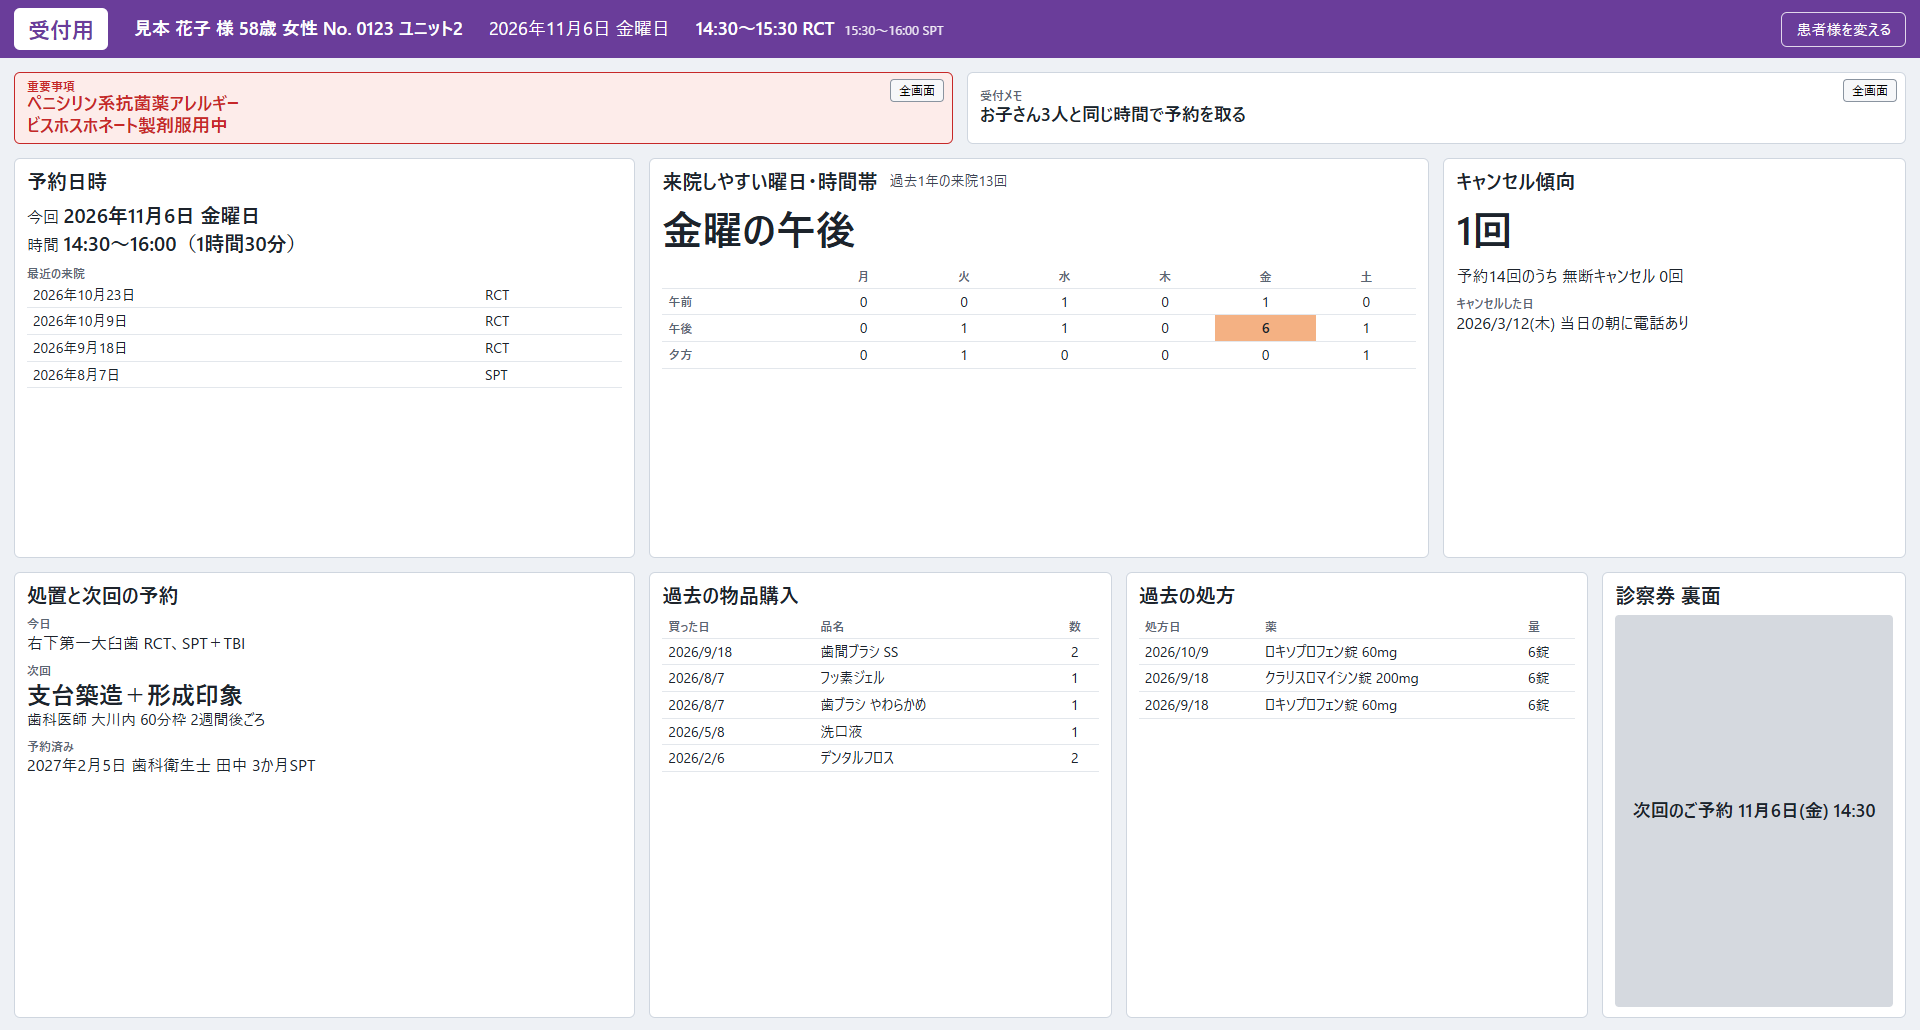
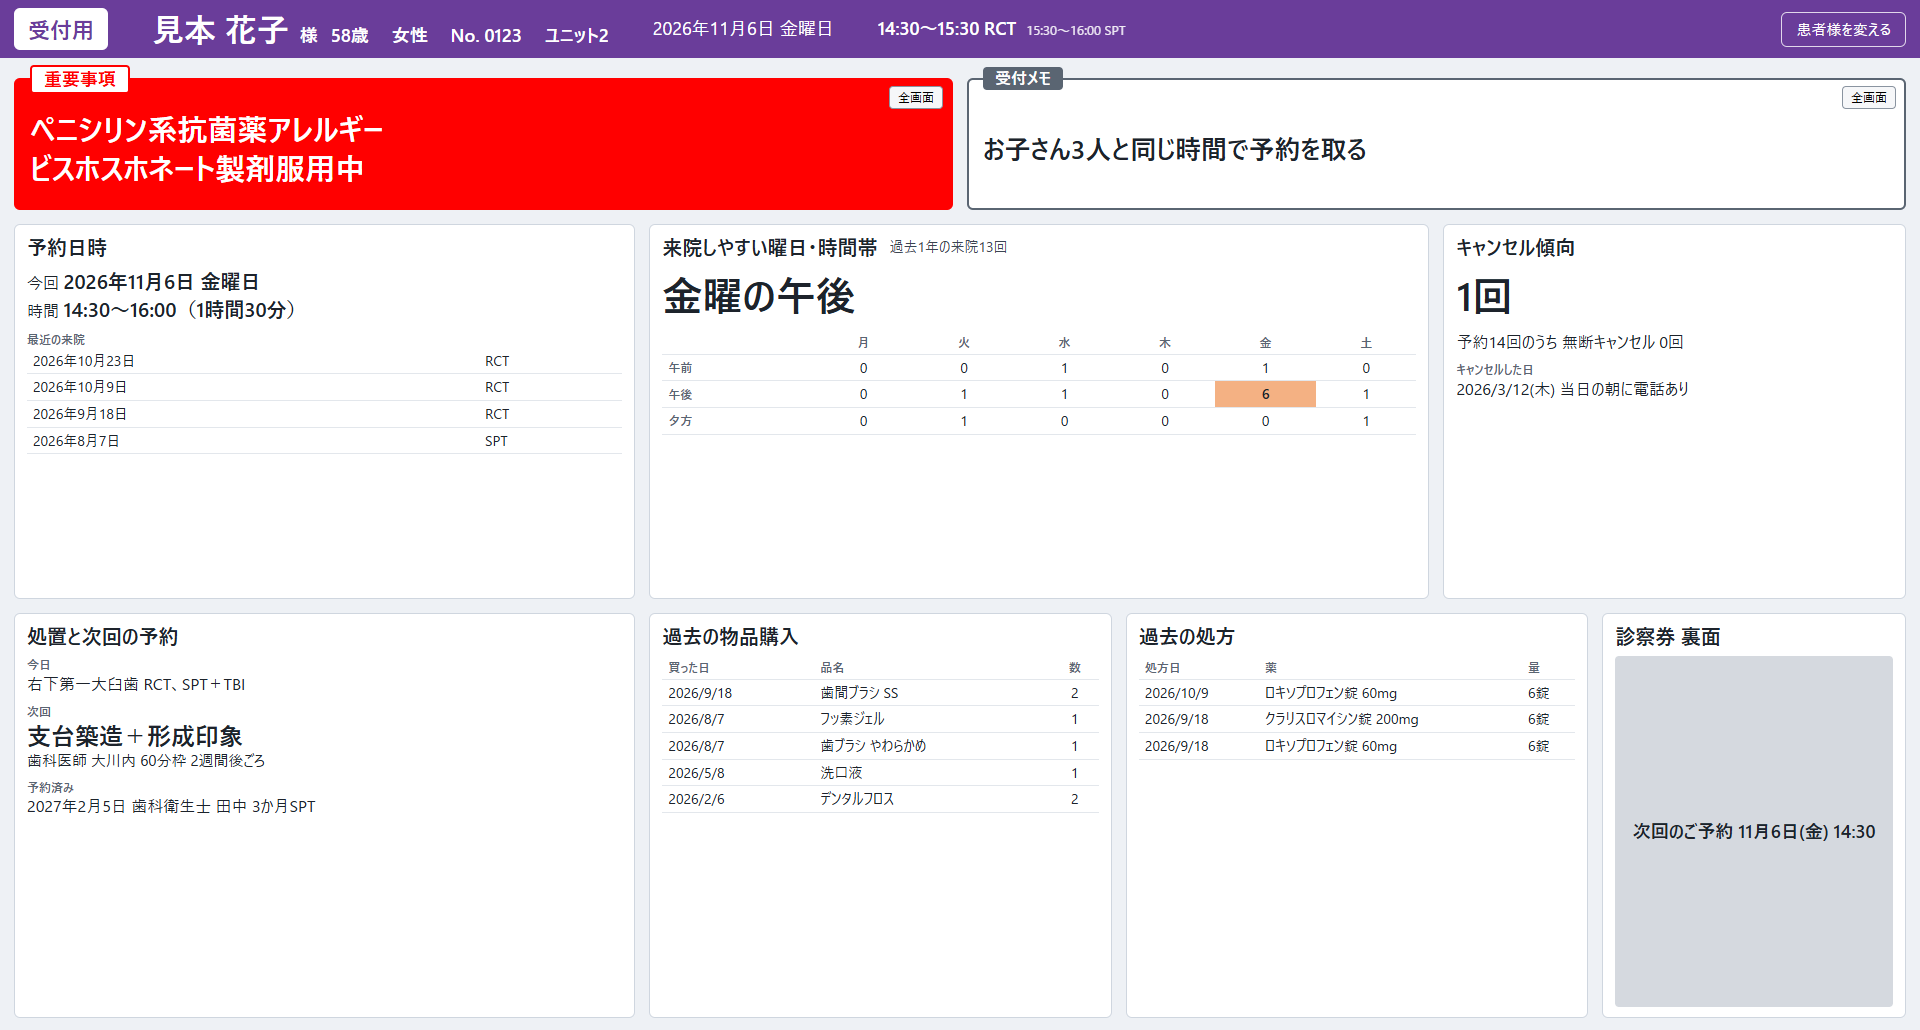
見た目: ヘッダーの名前と帯を見やすく

diff --git a/app/static/css/mock.css b/app/static/css/mock.css
@@ -34,7 +34,7 @@ body {
   color: #fff;
   display: flex;
   align-items: center;
-  gap: 26px;
+  gap: 44px;
   padding: 0 14px;
   white-space: nowrap;
 }
@@ -48,6 +48,9 @@ body {
   border-radius: 6px;
 }
 .topbar .patient { font-size: 18px; font-weight: 700; }
+.topbar .patient .pname { font-size: 32px; font-weight: 800; margin-right: 6px; }
+.topbar .patient .pinfo { margin-left: 18px; }
+.topbar .patient .pinfo:first-of-type { margin-left: 8px; }
 .topbar .date { font-size: 18px; }
 .topbar .appt { font-size: 18px; font-weight: 700; }
 .topbar .appt small { font-size: 13px; font-weight: 400; margin-left: 10px; opacity: .9; }
@@ -65,10 +68,11 @@ body {
 }
 .topbar .mic { width: 30px; height: 30px; fill: #fff; }
 
-/* 帯 */
+/* 帯。題は枠線にかぶせた見出しにする */
 .bands {
   flex: none;
-  height: 72px;
+  height: 132px;
+  margin-top: 6px;
   display: grid;
   gap: 14px;
   padding: 0 14px;
@@ -78,21 +82,35 @@ body {
 .band {
   position: relative;
   background: #fff;
-  border: 1px solid var(--line);
+  border: 2px solid #5a6572;
   border-radius: 6px;
-  padding: 4px 70px 4px 12px;
-  overflow: hidden;
+  padding: 18px 14px 8px;
   display: flex;
   flex-direction: column;
   justify-content: center;
+  min-width: 0;
 }
-.band h2 { margin: 0; font-size: 12px; line-height: 1.1; font-weight: 700; color: #5a6572; }
-.band .lines { font-size: 15px; line-height: 1.3; }
-.band.alert { background: var(--red-bg); border-color: var(--red); }
-.band.alert h2 { color: var(--red); }
-.band.alert .lines { color: var(--red); font-weight: 800; font-size: 18px; line-height: 1.2; }
-.band .inline { display: flex; flex-wrap: wrap; column-gap: 14px; font-size: 14px; }
-.band .big { font-size: 18px; font-weight: 700; }
+.band h2 {
+  position: absolute;
+  top: -13px;
+  left: 14px;
+  margin: 0;
+  background: #5a6572;
+  color: #fff;
+  font-size: 16px;
+  line-height: 1.3;
+  font-weight: 700;
+  padding: 1px 12px;
+  border-radius: 4px;
+}
+.band .lines { font-size: 24px; line-height: 1.3; font-weight: 700; }
+.band.alert { background: #ff0000; border-color: #ff0000; }
+.band.alert h2 { background: #fff; color: #ff0000; border: 2px solid #ff0000; top: -15px; font-size: 18px; font-weight: 800; }
+.band.alert .lines { color: #fff; font-size: 30px; line-height: 1.3; font-weight: 800; }
+.band .big { font-size: 26px; line-height: 1.3; font-weight: 700; }
+.band .meds { list-style: disc; margin: 0; padding-left: 26px; font-size: 21px; line-height: 1.3; font-weight: 700; overflow-y: auto; flex: 1; min-height: 0; }
+.band .meds li { padding: 0; }
+.band .mini { position: absolute; top: 6px; right: 8px; }
 
 /* 本体 */
 .body {
@@ -102,9 +120,9 @@ body {
   gap: 14px;
   padding: 0 14px;
 }
-.body.doctor { grid-template-rows: 500px 346px; }
-.body.hygienist { grid-template-rows: 386px 460px; }
-.body.reception { grid-template-rows: 400px 446px; }
+.body.doctor { grid-template-rows: 465px 315px; }
+.body.hygienist { grid-template-rows: 355px 425px; }
+.body.reception { grid-template-rows: 375px 405px; }
 
 .card {
   position: relative;

diff --git a/tests/test_mock_doctor.py b/tests/test_mock_doctor.py
@@ -9,8 +9,8 @@ WORDS = [
     "歯科医師用", "見本 花子 様 58歳 女性 No. 0123 ユニット2", "2026年11月6日 金曜日",
     "14:30〜15:30（1時間）", "15:30〜16:00 SPT", "患者様を変える", "役割を変える",
     "重要事項", "ペニシリン系抗菌薬アレルギー", "ビスホスホネート製剤服用中",
-    "全身既往・服薬", "高血圧、アムロジピン内服中", "脂質異常症、ロスバスタチン内服中",
-    "骨粗鬆症、BP製剤内服中", "申し送り", "長く口を開けているのがつらい方です",
+    "全身既往・服薬", "高血圧（アムロジピン内服中）", "脂質異常症（ロスバスタチン内服中）",
+    "骨粗鬆症（BP製剤内服中）", "申し送り", "長く口を開けているのがつらい方です",
     "今日の処置", "右下6番 根管充填", "根管治療 3回目", "治療計画",
     "右下6番 次回 支台築造と形成、そのあとクラウン", "左下7番 3か月様子を見る",
     "その間に 右上5番 の充填", "過去の診療メモ",
@@ -29,5 +29,16 @@ def test_doctor_screen(server, browser):  # noqa: F811
     assert pg.locator("button:has-text('全画面')").count() == 6
     assert pg.locator("[data-part=photo-list] .ph").count() == 12
     assert pg.locator("[data-part=treatment-history] tbody tr").count() == 10
-    # 過去の診療メモだけ縦にスクロールできる
+    # 全身既往・服薬は1行ずつで、4行が全部見える
+    meds = pg.locator("[data-part=medical-history] ul.meds")
+    assert meds.locator("li").count() == 4
+    assert meds.evaluate("e => e.scrollHeight <= e.clientHeight + 1")
+    # 重要事項は赤地に白文字
+    assert pg.locator("[data-part=important]").evaluate(
+        "e => getComputedStyle(e).backgroundColor") == "rgb(255, 0, 0)"
+    assert pg.locator("[data-part=important] .lines").evaluate(
+        "e => getComputedStyle(e).color") == "rgb(255, 255, 255)"
+    # 名前は他の項目より大きい
+    size = lambda sel: pg.locator(sel).first.evaluate("e => parseFloat(getComputedStyle(e).fontSize)")
+    assert size(".pname") > size(".pinfo")
     pg.close()

diff --git a/app/mockview/parts.py b/app/mockview/parts.py
@@ -9,7 +9,11 @@ MIC = (
 FULL = '<button class="mini" type="button" data-action="fullscreen">全画面</button>'
 PHONE = '<button class="mini" type="button" data-action="phone">スマホ</button>'
 
-PATIENT = "見本 花子 様 58歳 女性 No. 0123"
+PATIENT = (
+    '<b class="pname">見本 花子</b> 様 '
+    '<span class="pinfo">58歳</span> <span class="pinfo">女性</span> '
+    '<span class="pinfo">No. 0123</span>'
+)
 DATE = "2026年11月6日 金曜日"
 
 
@@ -24,7 +28,7 @@ def page(role, title, topbar, bands, body):
 
 
 def topbar(tag, appt_html, buttons, unit=True, mic=True):
-    unit_s = " ユニット2" if unit else ""
+    unit_s = ' <span class="pinfo">ユニット2</span>' if unit else ""
     right = (MIC if mic else "") + "".join(
         f'<button type="button" data-action="{a}">{t}</button>' for a, t in buttons
     )
@@ -65,13 +69,14 @@ def important():
 
 
 def medical():
-    inner = (
-        '<div class="inline"><span>高血圧、アムロジピン内服中</span>'
-        "<span>脂質異常症、ロスバスタチン内服中</span>"
-        "<span>骨粗鬆症、BP製剤内服中</span>"
-        "<span>ペニシリン系抗菌薬アレルギー</span></div>"
-    )
-    return band("medical-history", "全身既往・服薬", inner)
+    items = [
+        "高血圧（アムロジピン内服中）",
+        "脂質異常症（ロスバスタチン内服中）",
+        "骨粗鬆症（BP製剤内服中）",
+        "ペニシリン系抗菌薬アレルギー",
+    ]
+    li = "".join(f"<li>{x}</li>" for x in items)
+    return band("medical-history", "全身既往・服薬", f'<ul class="meds">{li}</ul>')
 
 
 def note():

diff --git a/tests/test_mock_hygienist.py b/tests/test_mock_hygienist.py
@@ -8,8 +8,8 @@ WORDS = [
     "歯科衛生士用", "見本 花子 様 58歳 女性 No. 0123 ユニット2", "2026年11月6日 金曜日",
     "15:30〜16:00（30分）", "前の予約 14:30〜15:30 RCT", "患者様を変える", "役割を変える",
     "重要事項", "ペニシリン系抗菌薬アレルギー", "ビスホスホネート製剤服用中",
-    "全身既往・服薬", "高血圧、アムロジピン内服中", "脂質異常症、ロスバスタチン内服中",
-    "骨粗鬆症、BP製剤内服中", "申し送り", "長く口を開けているのがつらい方です",
+    "全身既往・服薬", "高血圧（アムロジピン内服中）", "脂質異常症（ロスバスタチン内服中）",
+    "骨粗鬆症（BP製剤内服中）", "申し送り", "長く口を開けているのがつらい方です",
     "口腔内写真", "スマホ", "話した内容の整理", "右下奥の清掃を指導", "寝る前の歯間ブラシを継続",
     "録音中 00:48", "メンテナンス間隔", "3か月ごと 前回 2026年8月7日", "使用ケア用品・購入履歴",
     "歯間ブラシ SS", "2026/9/18", "フッ素ジェル", "2026/8/7", "歯ブラシ やわらかめ",

diff --git a/docs/制作記録.md b/docs/制作記録.md
@@ -7,3 +7,4 @@
 - 2026-11-02 G04: 歯科衛生士の画面の見本（/mock/hygienist）を頼まれた。上の行と帯は歯科医師の画面と共通の部品にし、写真、話した内容、ケア用品、歯周基本検査の表を作った。試験と docs/画面/G04.png を足した。
 - 2026-11-02 G05: 受付の画面の見本（/mock/reception）を頼まれた。紫の上の行、帯2つ、予約日時、来院しやすい曜日、キャンセル傾向、処置と次回、購入、処方、診察券の裏を作った。声の部品は置かない。試験と docs/画面/G05.png を足した。
 - 2026-11-02 G06: 予約一覧の見本（/mock/）を頼まれた。6行の表で氏名は伏せ字、1人ずつと全員の切り替え、行を押すと歯科医師か歯科衛生士の画面が開く。患者様を変える、役割を変えるも動くようにした（受付へのボタンは置かない）。試験を3つ足し、試験用サーバーの起動を全体で1回に直した。
+- 2026-11-02 見た目の直し（G03-r2）: 院長の言葉で、3画面共通のヘッダーと帯の直しを頼まれた。患者様の名前を大きくして項目の間をあけ、帯の題を枠にかぶせた見出しに、重要事項を赤地に白文字にし、帯を高くして文字を大きくした。全身既往は病名（薬）を1行ずつの箇条書きにして4行見えるようにした。本体の段は帯の分だけ縮めた。

diff --git a/docs/進捗_look.md b/docs/進捗_look.md
@@ -1,5 +1,5 @@
 # 進捗 look
-- 動く版: G06 完了。見本4画面と予約一覧が動く。部品は app/mockview/、見た目は app/static/css/、つなぎは app/static/js/mock_nav.js。
+- 動く版: G06 完了＋見た目の直し（goal-G03-r2）。見本4画面と予約一覧が動く。部品は app/mockview/、見た目は app/static/css/、つなぎは app/static/js/mock_nav.js。
 - 開始時のコミット: 9dc3e98（main を取り込み済み）
 - 残り: なし（G03〜G06 は main に入れた）。
 - 次のゴール: 指示待ち
